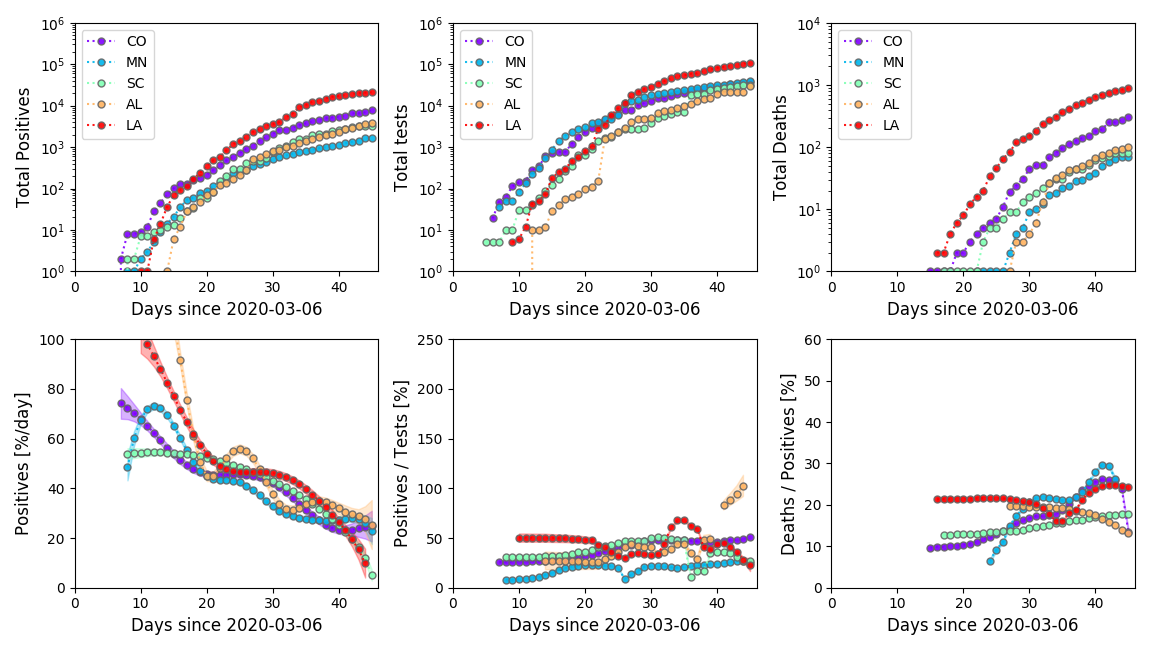
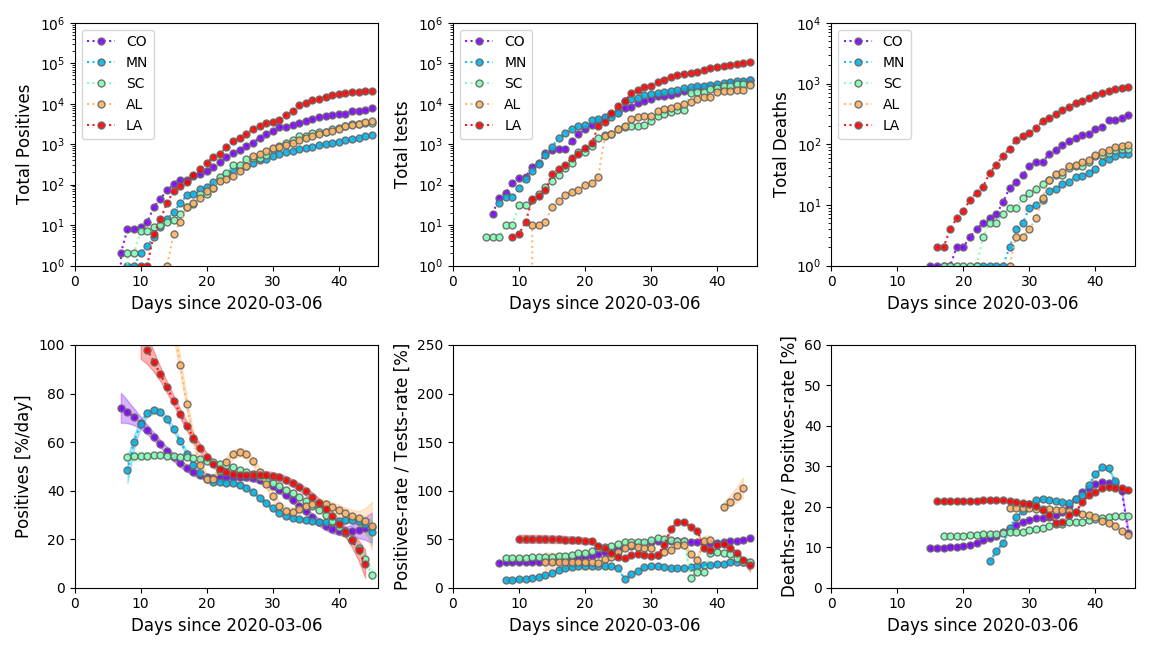
md minor correction. Wrong labels on rates2 plots.

diff --git a/src/usa_states_rates_plot.py b/src/usa_states_rates_plot.py
@@ -108,10 +108,10 @@ def make_fig3(date, positives_low_min=1):
     local_axes_formatting(axes[1, 0], "Population", "Positives [%/day]", xlim2=1e08, ylim2=100, xlim1=5e05, ylim1=0, logy=False, fs=12)
     # gr_total_test v/s positives_rate
     axes[1, 1].scatter(total_test, gr_total_test, c=deaths, cmap=cmap, norm=norm, edgecolors='k', alpha=0.75, s=sizes)
-    local_axes_formatting(axes[1, 1], "Total Tests", "Positives/Tests [%]", xlim1=positives_low_min, xlim2=1e06, ylim1=0, ylim2=125, logy=False, logx=True, fs=12)
+    local_axes_formatting(axes[1, 1], "Total Tests", "Positives-rate / Tests-rate [%]", xlim1=positives_low_min, xlim2=1e06, ylim1=0, ylim2=125, logy=False, logx=True, fs=12)
     # gr_deaths v/s positives_rate
     axes[1, 2].scatter(positives, gr_deaths, c=deaths, cmap=cmap, norm=norm, edgecolors='k', alpha=0.75, s=sizes)
-    local_axes_formatting(axes[1, 2], "Total Positives", "Deaths/Positives [%]", xlim1=positives_low_min, xlim2=5e05, ylim1=0, ylim2=61, logy=False, logx=True, fs=12)
+    local_axes_formatting(axes[1, 2], "Total Positives", "Deaths-rate / Positives-rate [%]", xlim1=positives_low_min, xlim2=5e05, ylim1=0, ylim2=61, logy=False, logx=True, fs=12)
     plt.tight_layout()
     # Add the labels for the top states. Note: it is better to add
     # labels after plt.tight_layout()
@@ -178,8 +178,8 @@ def make_fig4(states):
     local_axes_formatting(axes[0, 1], "Days since 2020-03-06", "Total tests", xlim1=0, xlim2=dayspan+1, ylim1=1, ylim2=1e06, fs=12, logx=False)
     local_axes_formatting(axes[0, 2], "Days since 2020-03-06", "Total Deaths", xlim2=dayspan+1, ylim2=max_death, xlim1=0, ylim1=1, fs=12, logx=False)
     local_axes_formatting(axes[1, 0], "Days since 2020-03-06", "Positives [%/day]", xlim2=dayspan+1, ylim2=100, xlim1=0, ylim1=0, fs=12, logx=False, logy=False)
-    local_axes_formatting(axes[1, 1], "Days since 2020-03-06", "Positives / Tests [%]", xlim2=dayspan+1, ylim2=250, xlim1=0, ylim1=0, fs=12, logx=False, logy=False)
-    local_axes_formatting(axes[1, 2], "Days since 2020-03-06", "Deaths / Positives [%]", xlim2=dayspan+1, ylim2=60, xlim1=0, ylim1=0, fs=12, logx=False, logy=False)
+    local_axes_formatting(axes[1, 1], "Days since 2020-03-06", "Positives-rate / Tests-rate [%]", xlim2=dayspan+1, ylim2=250, xlim1=0, ylim1=0, fs=12, logx=False, logy=False)
+    local_axes_formatting(axes[1, 2], "Days since 2020-03-06", "Deaths-rate / Positives-rate [%]", xlim2=dayspan+1, ylim2=60, xlim1=0, ylim1=0, fs=12, logx=False, logy=False)
     plt.tight_layout()
     for (i, state) in enumerate(states):
         # get the data pertaining the date

diff --git a/USA_STATE_RATES.md b/USA_STATE_RATES.md
@@ -8,9 +8,10 @@
 
 ## Approach
 
-Overall I used the
-[fitderiv](http://swainlab.bio.ed.ac.uk/software/fitderiv/) package for
-inferring derivatives. 
+The goal is to infer derivatives in the variables related to covid-19,
+for which I used the
+[fitderiv](http://swainlab.bio.ed.ac.uk/software/fitderiv/) package
+implementing Gaussian process regression:
 * For derivatives of the positives cases relative to people testes, as
 well as deaths relative to positive cases, the variables were kept
 without transforming them.
@@ -20,7 +21,8 @@ growth-rate). We expect that the number of infected people (some
 function of positive cases) should follow an exponential growth. However
 it is less clear what relation we should expect for the growth of
 testing (somewhat arbitrary process) and deaths (may depend on the
-fraction of risk-population and health-care capacity).
+fraction of risk-population and health-care capacity).  
+
 **NOTE:** The errors are the 95% confidence intervals assuming Gaussian
 distributions and covariance with default parameters. Some of the curves
 present steep transitions and were not able to converge properly during
@@ -48,8 +50,8 @@ most likely as a result of the measures taken.
   delay? Or find the delay that minimizes the variance in
   deaths/positives rates? The second approach sounds interesting if we
   can "safely" assume that the health-care capacity and fraction of
-  risk-population infected is constant over-time. (... or we should fit
-  to a proper dynamical model and forget about this approach).
+  risk-population infected is constant over-time. (... or fit to a
+  proper dynamical model).
 
 ### Relative rates: positives/tests & deaths/positives
 
